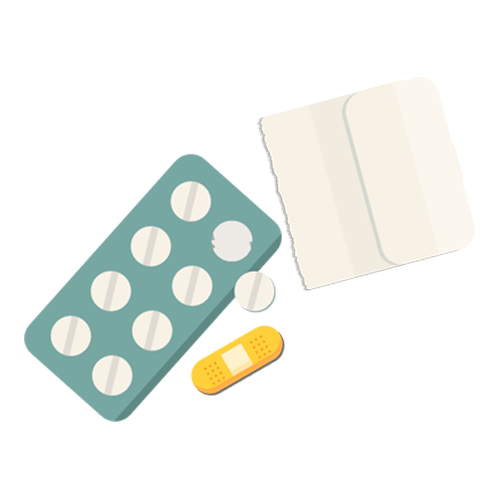
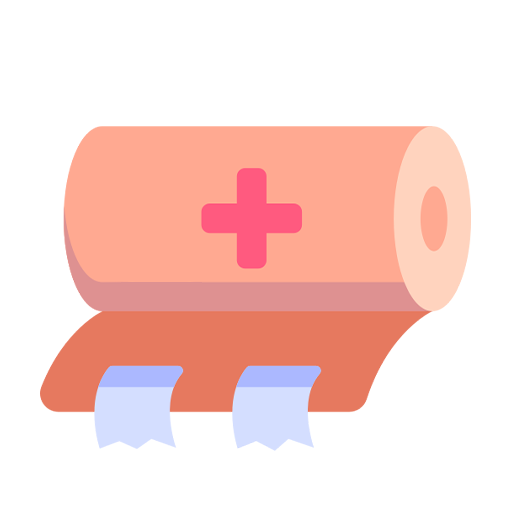
rfr ico's

diff --git a/js/newCircle.js b/js/newCircle.js
@@ -47,7 +47,7 @@ let menuTitleList = {
             { 
                 id:'перевернуть машину',
                 button:'reverseCar',
-                img:'img/fractionCircle/evacuation.png'
+                img:'img/fractionCircle/reverseCar.png'
             }            
         ]
     },

diff --git a/css/newCircle.css b/css/newCircle.css
@@ -483,7 +483,7 @@ body
 .container .wrapper .big-circle#section4 .inner .big-item:nth-child(4) img
 { 
     top: 42%;
-    right: 47%;
+    right: 49%;
     transform: rotate(-269deg);
 }
 .col-wrapper
